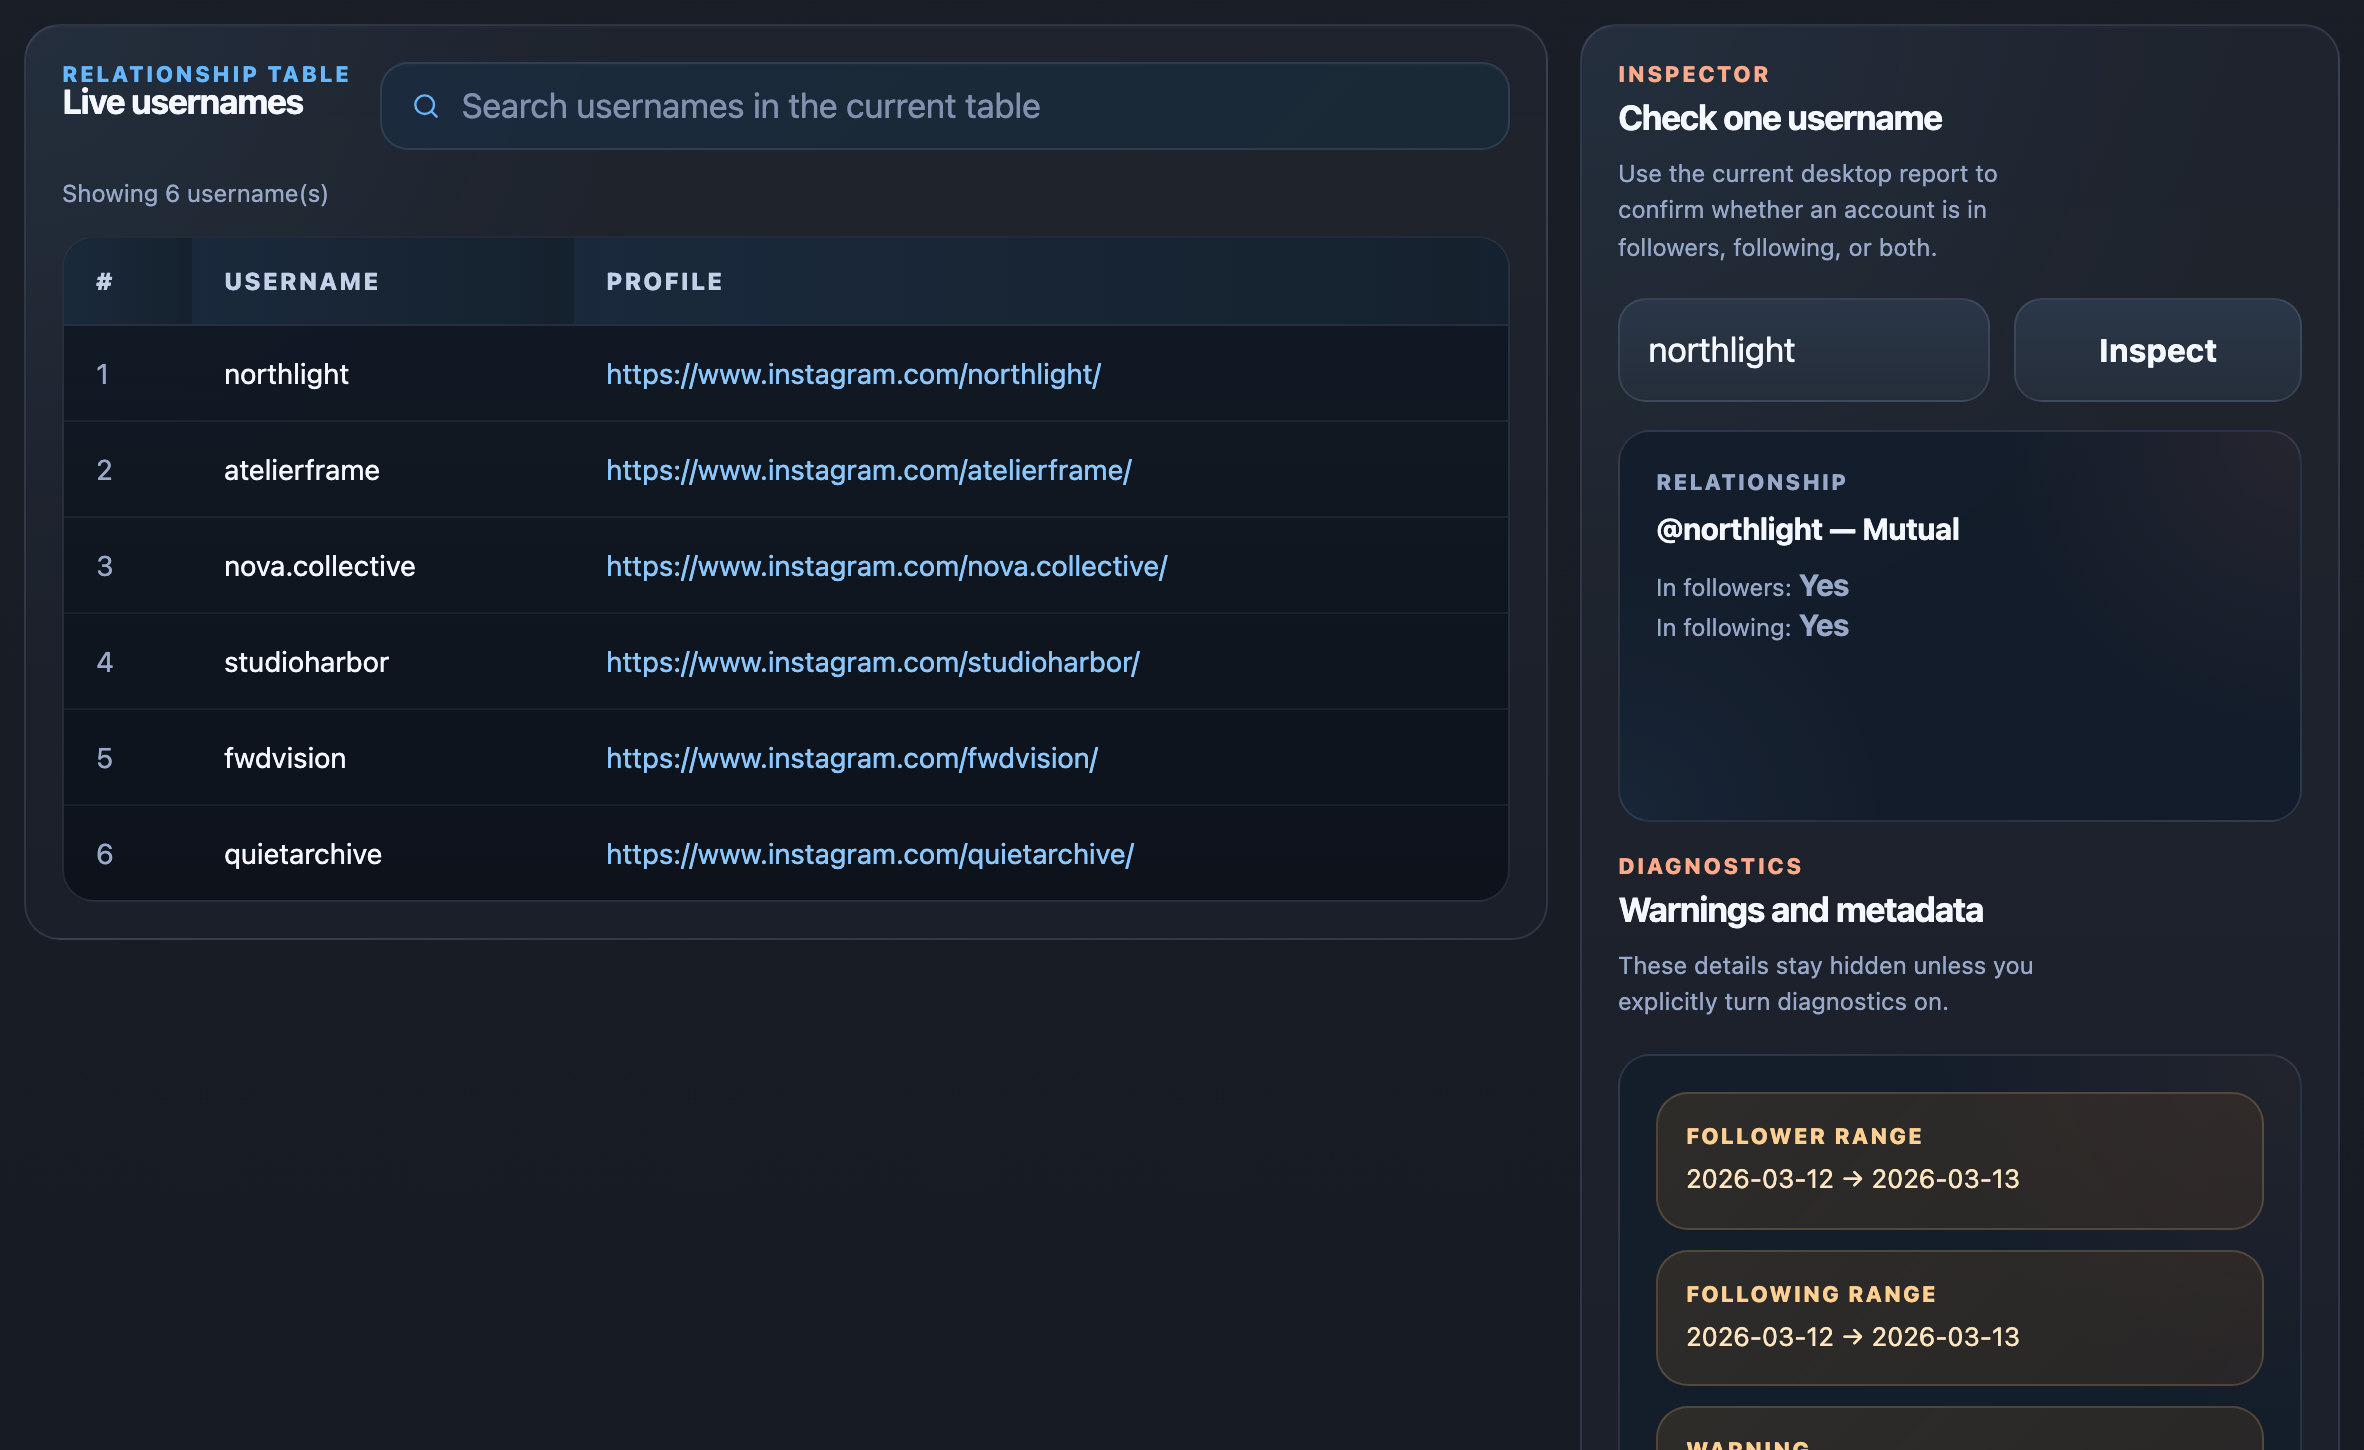
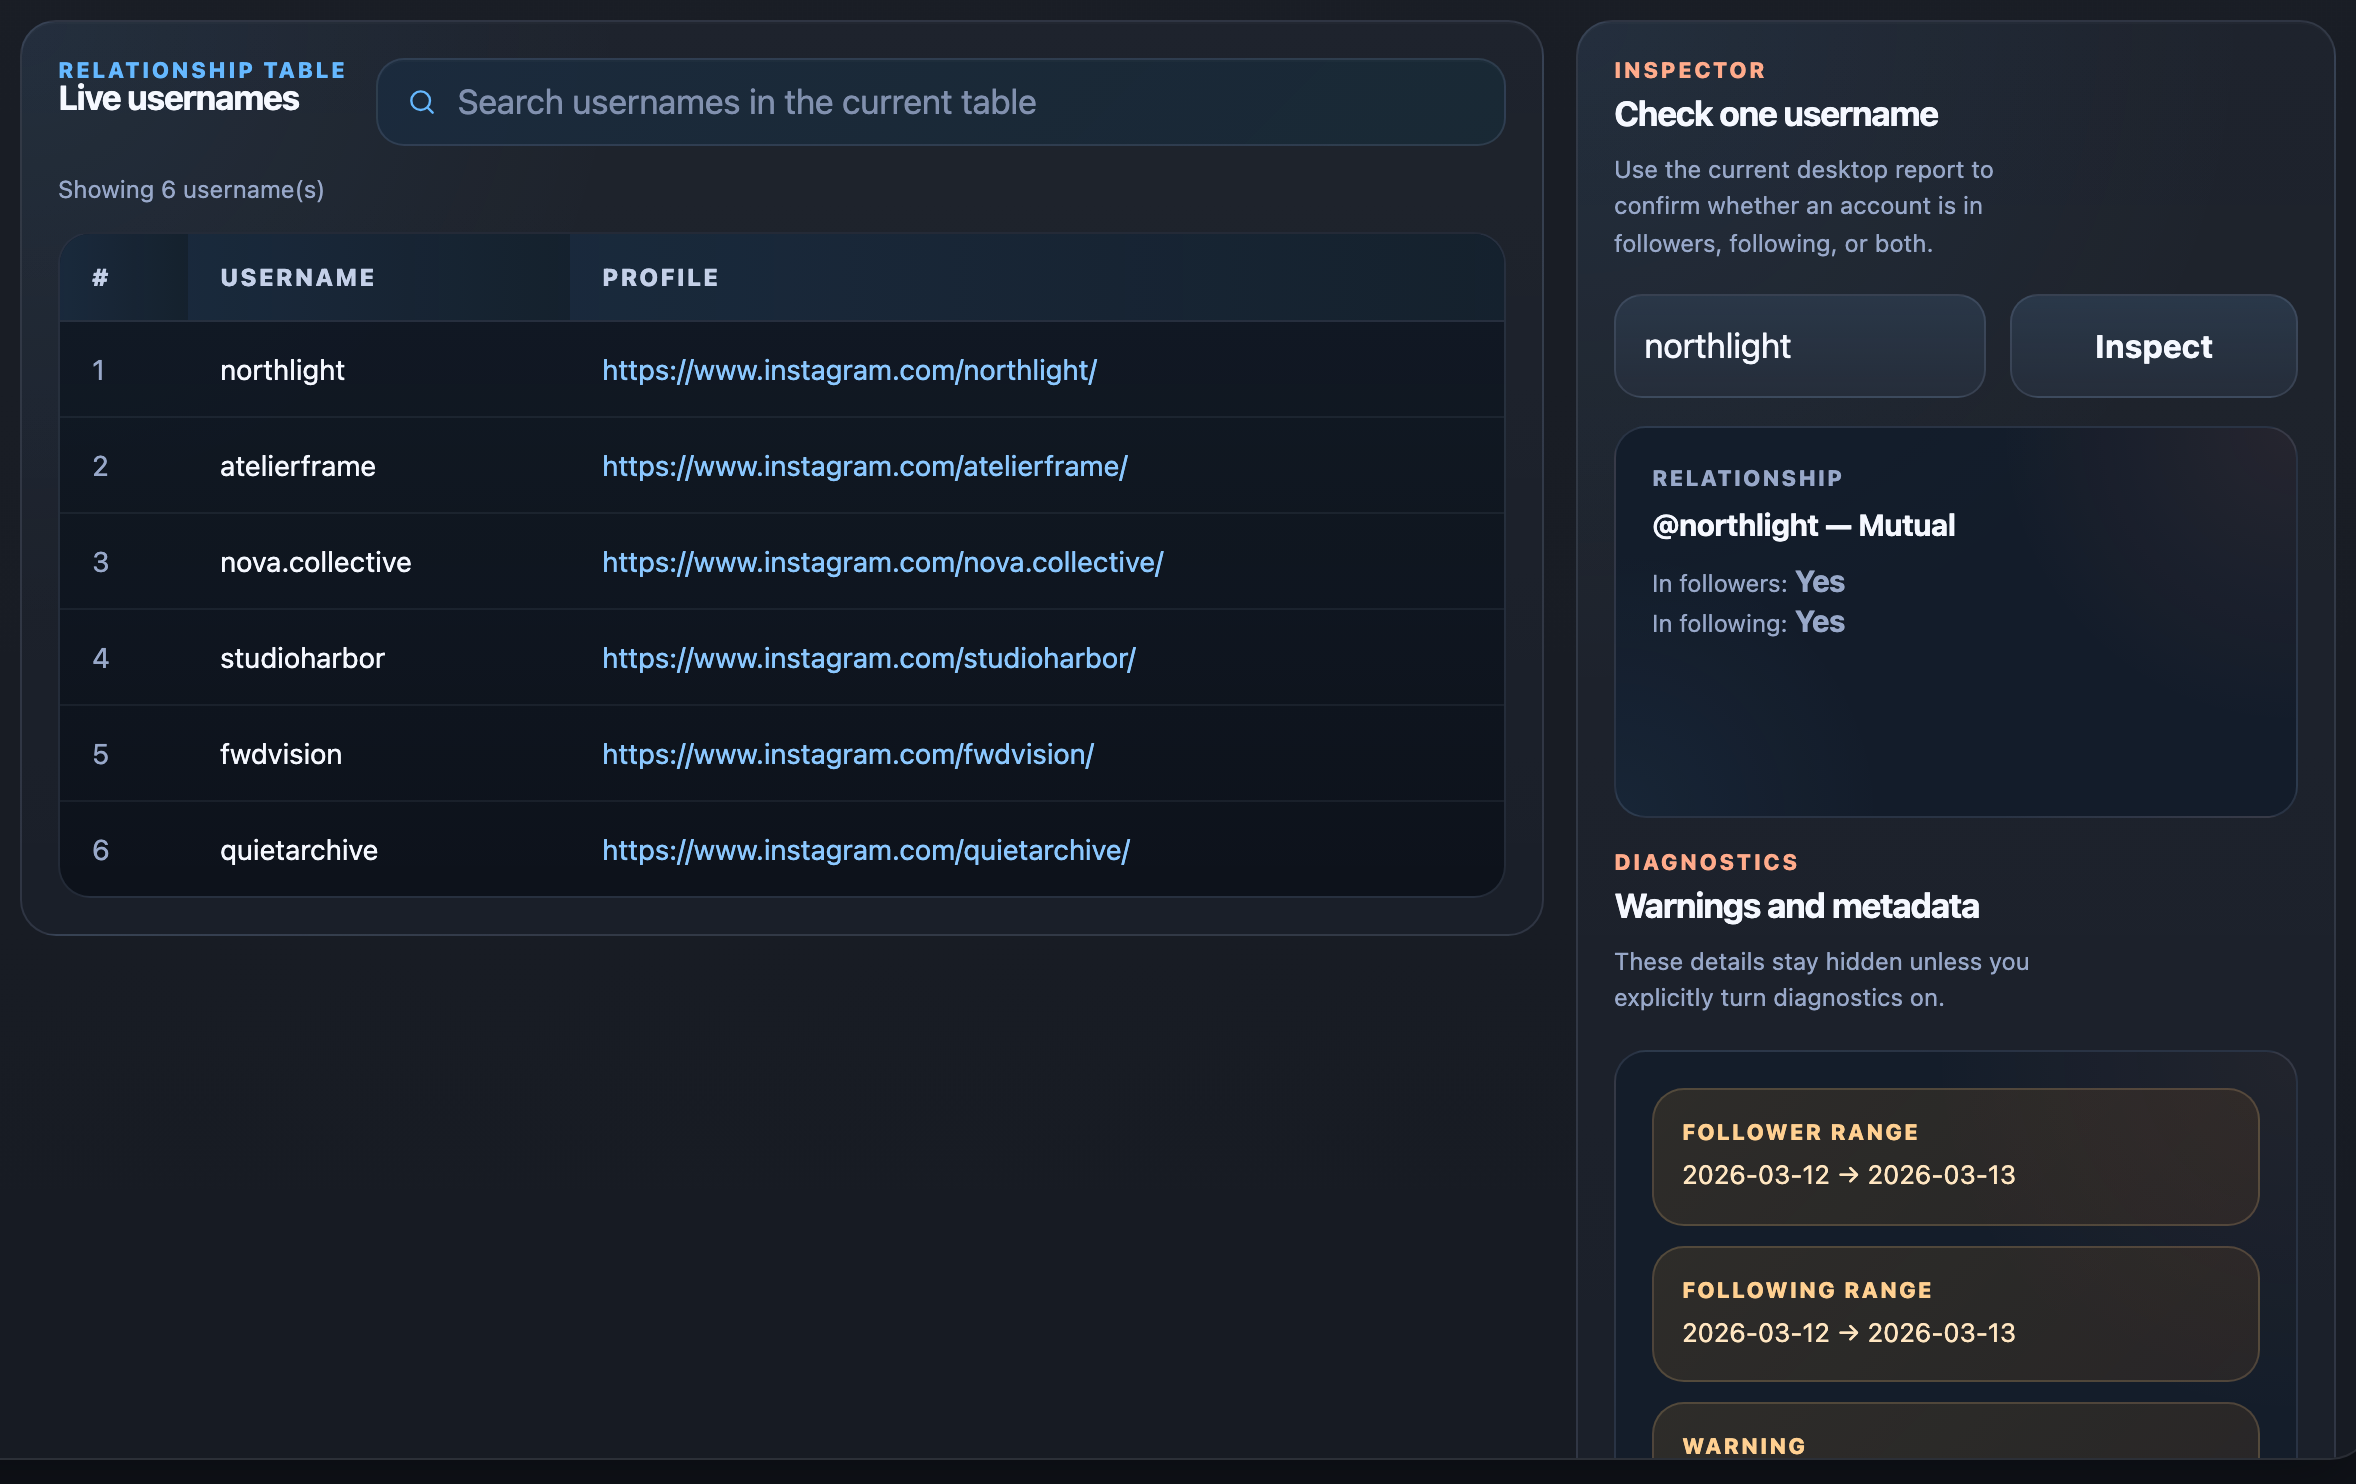
Tighten screenshot crops for GitHub

diff --git a/scripts/capture_desktop_screenshots.py b/scripts/capture_desktop_screenshots.py
@@ -273,9 +273,9 @@ def capture_feature_gallery(page) -> None:
     )
     capture_region(
         page,
-        [".sidebar"],
+        [".nav-card", ".field-stack", ".button-stack", ".action-feedback"],
         OUTPUT_DIR / "sidebar-flow.png",
-        padding=10,
+        padding=12,
     )
     capture_region(
         page,
@@ -291,9 +291,9 @@ def capture_feature_gallery(page) -> None:
     )
     capture_region(
         page,
-        [".workspace-grid"],
+        [".table-card", ".inspector-card"],
         OUTPUT_DIR / "analysis-workspace.png",
-        padding=12,
+        padding=10,
     )
     capture_region(
         page,

diff --git a/README.md b/README.md
@@ -55,17 +55,11 @@ The screenshots below are synthetic product captures generated from the desktop 
 </p>
 
 <p align="center">
-  <img src="./docs/screenshots/sidebar-flow.png" alt="Zoomed left rail showing connected session identity, scan setup, view options, and action controls" width="420" />
+  <img src="./docs/screenshots/sidebar-flow.png" alt="Zoomed left rail showing connected session identity, scan setup, view options, and action controls" width="260" />
+  <img src="./docs/screenshots/analysis-workspace.png" alt="Zoomed analysis area showing the relationship table next to the inspector and diagnostics panels" width="660" />
 </p>
 <p align="center">
-  <strong>Persistent local session identity and fast scan setup from the desktop rail</strong>
-</p>
-
-<p align="center">
-  <img src="./docs/screenshots/analysis-workspace.png" alt="Zoomed analysis area showing the relationship table next to the inspector and diagnostics panels" width="960" />
-</p>
-<p align="center">
-  <strong>Searchable relationship table, inspector, and diagnostics in one focused analysis view</strong>
+  <strong>Persistent local session identity, fast scan setup, and a focused analysis view</strong>
 </p>
 
 ## Desktop Quick Start
